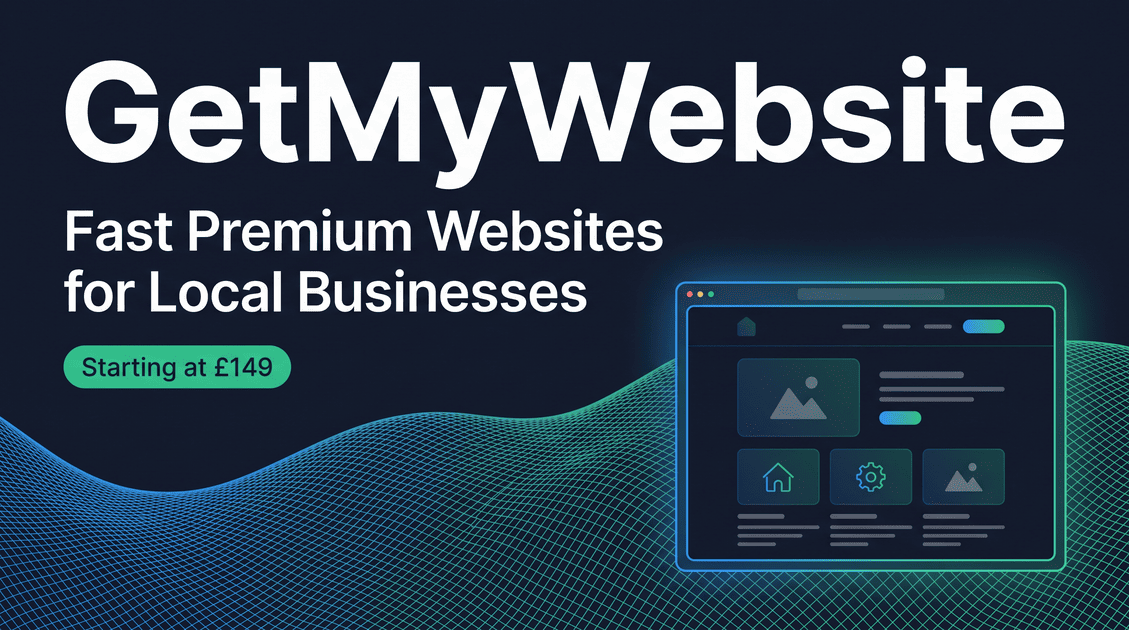
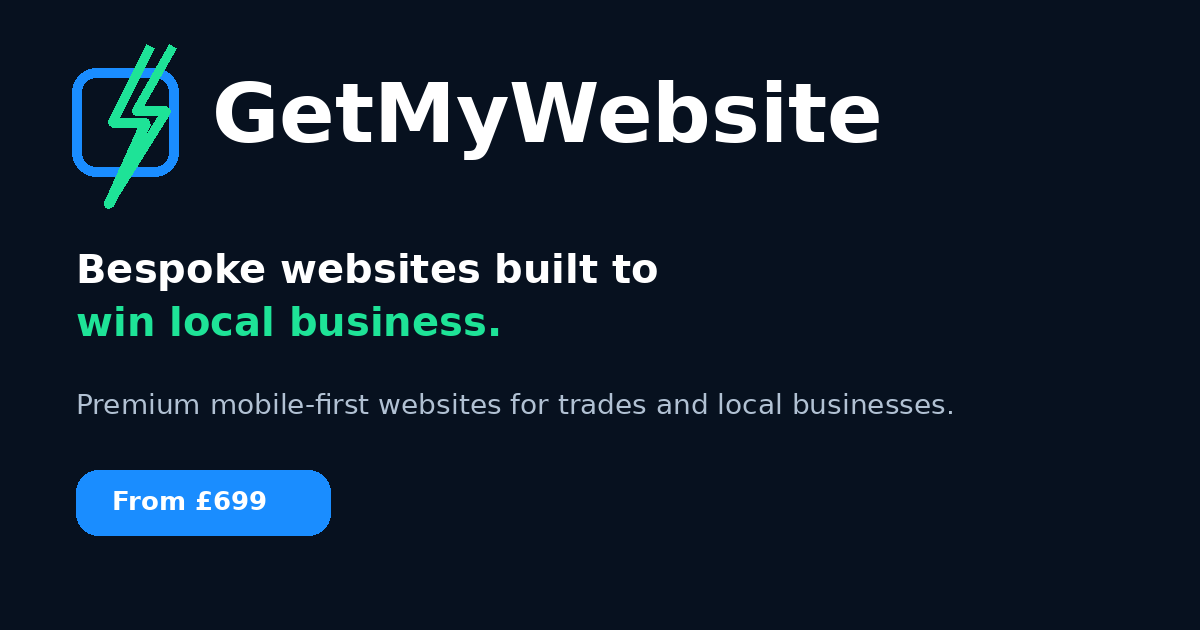
Add files via upload

diff --git a/index.html b/index.html
@@ -1,22 +1,155 @@
-<!DOCTYPE html><html lang="en"><head>
-		<meta charset="UTF-8">
-		<meta name="viewport" content="width=device-width, initial-scale=1.0">
-		<link rel="icon" href="./favicon.ico">
-		<meta property="og:image" content="./og-image.png">
-		<title>GetMyWebsite — Fast Premium Websites for Local Businesses</title>
-		<meta name="description" content="GetMyWebsite builds fast, premium websites for small businesses and local trades. Basic websites from £149, live in days. Mobile-friendly, WhatsApp buttons, 1 year hosting + custom domain included.">
-		<meta name="keywords" content="website for local business, website for tradesmen, cheap business website UK, fast website design, small business website, plumber website, gardener website, cleaning company website">
-		<meta property="og:title" content="GetMyWebsite — Fast Premium Websites for Local Businesses">
-		<meta property="og:description" content="Custom websites for small businesses and trades from £149. Mobile-friendly, WhatsApp-ready, live in days, 1 year hosting + domain included.">
-		<meta property="og:type" content="website">
-		<meta name="twitter:card" content="summary_large_image">
-		<meta name="twitter:title" content="GetMyWebsite — Fast Premium Websites for Local Businesses">
-		<meta name="twitter:description" content="Custom websites for small businesses and trades from £149. Mobile-friendly, WhatsApp-ready, live in days.">
-		<script type="module" crossorigin="" src="./assets/index-HQ4wgXe7.js"></script>
-		<link rel="stylesheet" crossorigin="" href="./assets/index-BVMyHrUg.css">
-	</head>
-	<body>
-		<div id="root"></div>
-	
+<!DOCTYPE html>
+<html lang="en">
+<head>
+  <meta charset="UTF-8">
+  <meta name="viewport" content="width=device-width, initial-scale=1.0">
+  <title>GetMyWebsite — Bespoke Websites for Local Businesses</title>
+  <meta name="description" content="Bespoke, mobile-first websites for trades and local businesses. Professional web design from £699 with WhatsApp, call integration, local SEO foundations and fast delivery.">
+  <meta name="keywords" content="bespoke website design, local business website, tradesman website, small business website UK, web design for trades, local SEO website">
+  <meta property="og:title" content="GetMyWebsite — Bespoke Websites for Local Businesses">
+  <meta property="og:description" content="Bespoke websites built to turn local visitors into calls, messages and enquiries. Packages from £699.">
+  <meta property="og:image" content="https://getmywebsite.uk/og-image.png">
+  <meta property="og:type" content="website">
+  <meta name="twitter:card" content="summary_large_image">
+  <link rel="icon" href="favicon.ico">
+  <link rel="preconnect" href="https://fonts.googleapis.com">
+  <link rel="preconnect" href="https://fonts.gstatic.com" crossorigin>
+  <link href="https://fonts.googleapis.com/css2?family=Manrope:wght@400;500;600;700;800&display=swap" rel="stylesheet">
+  <link rel="stylesheet" href="styles.css">
+</head>
+<body>
+  <header class="site-header">
+    <div class="shell nav-wrap">
+      <a class="brand" href="#top" aria-label="GetMyWebsite home"><img src="assets/logo.svg" alt="GetMyWebsite"></a>
+      <nav class="desktop-nav" aria-label="Main navigation">
+        <a href="#work">Our Work</a><a href="#services">What's Included</a><a href="#pricing">Pricing</a><a href="#process">How It Works</a>
+      </nav>
+      <div class="nav-actions">
+        <a class="nav-call" href="tel:07367856186">07367 856 186</a>
+        <a class="btn btn-small" href="https://wa.me/447367856186?text=Hi%20Kieran%2C%20I%27d%20like%20to%20talk%20about%20a%20website" target="_blank" rel="noopener">Get a Quote</a>
+      </div>
+      <button class="menu-toggle" aria-label="Open menu" aria-expanded="false"><span></span><span></span><span></span></button>
+    </div>
+    <div class="mobile-menu" aria-hidden="true">
+      <a href="#work">Our Work</a><a href="#services">What's Included</a><a href="#pricing">Pricing</a><a href="#process">How It Works</a>
+      <a class="btn" href="https://wa.me/447367856186?text=Hi%20Kieran%2C%20I%27d%20like%20to%20talk%20about%20a%20website" target="_blank" rel="noopener">WhatsApp Us</a>
+    </div>
+  </header>
 
-</body></html>
+  <main id="top">
+    <section class="hero">
+      <div class="hero-glow hero-glow-one"></div><div class="hero-glow hero-glow-two"></div>
+      <div class="shell hero-grid">
+        <div class="hero-copy">
+          <div class="eyebrow"><span></span> BESPOKE WEBSITES FOR LOCAL BUSINESS</div>
+          <h1>Your business deserves a website that <em>looks the part.</em></h1>
+          <p class="hero-lead">Premium, mobile-first websites built around your business — designed to turn local visitors into calls, WhatsApp messages and enquiries.</p>
+          <div class="hero-actions">
+            <a class="btn btn-primary" href="#work">See Our Work</a>
+            <a class="btn btn-ghost" href="https://wa.me/447367856186?text=Hi%20Kieran%2C%20I%27d%20like%20a%20quote%20for%20a%20website" target="_blank" rel="noopener">Get a Quote</a>
+          </div>
+          <div class="hero-proof">
+            <div><strong>100%</strong><span>Bespoke design</span></div>
+            <div><strong>Mobile</strong><span>Built first</span></div>
+            <div><strong>Fast</strong><span>Launch turnaround</span></div>
+          </div>
+        </div>
+        <div class="hero-showcase" aria-label="Website portfolio preview">
+          <div class="browser browser-main">
+            <div class="browser-bar"><i></i><i></i><i></i><span>yourbusiness.co.uk</span></div>
+            <img src="assets/portfolio-draindoctor.jpg" alt="Drain Doctor Derby website example">
+          </div>
+          <div class="browser browser-float browser-float-one"><img src="assets/portfolio-cutting-edge.jpg" alt="Garden services website example"></div>
+          <div class="browser browser-float browser-float-two"><img src="assets/portfolio-cleaning.jpg" alt="Cleaning business website example"></div>
+          <div class="built-badge"><span class="pulse"></span><b>Built for real local businesses</b></div>
+        </div>
+      </div>
+      <div class="trust-strip">
+        <div class="shell trust-grid">
+          <span>Bespoke design</span><span>Mobile optimised</span><span>Call + WhatsApp</span><span>Local SEO foundations</span><span>Hosting + domain setup</span>
+        </div>
+      </div>
+    </section>
+
+    <section class="section work" id="work">
+      <div class="shell">
+        <div class="section-head split-head">
+          <div><div class="kicker">SELECTED WORK</div><h2>Different businesses.<br>Different websites.</h2></div>
+          <p>We don't force every client into the same template. The design, colour, layout and messaging are built around the business we're working with.</p>
+        </div>
+        <div class="portfolio-showcase">
+          <article class="case-study case-study-featured">
+            <div class="case-visual"><img src="assets/portfolio-greens.jpg" alt="Green's Paving Landscaping and Roofing website"></div>
+            <div class="case-copy"><span>LANDSCAPING · PAVING · ROOFING</span><h3>Green's</h3><p>A bold, image-led local trades website with instant Call and WhatsApp routes and a strong mobile-first layout.</p></div>
+          </article>
+          <div class="case-grid">
+            <article class="case-study"><div class="case-visual"><img src="assets/portfolio-draindoctor.jpg" alt="Drain Doctor Derby website"></div><div class="case-copy"><span>EMERGENCY PLUMBING</span><h3>Drain Doctor Derby</h3></div></article>
+            <article class="case-study"><div class="case-visual"><img src="assets/portfolio-cutting-edge.jpg" alt="Cutting Edge Garden Services website"></div><div class="case-copy"><span>GARDEN SERVICES</span><h3>Cutting Edge</h3></div></article>
+            <article class="case-study"><div class="case-visual"><img src="assets/portfolio-cleaning.jpg" alt="Prestige Clean website"></div><div class="case-copy"><span>CLEANING</span><h3>Prestige Clean</h3></div></article>
+            <article class="case-study"><div class="case-visual"><img src="assets/portfolio-plumbing.jpg" alt="Mickleover Plumbing website"></div><div class="case-copy"><span>PLUMBING</span><h3>Mickleover Plumbing</h3></div></article>
+          </div>
+        </div>
+      </div>
+    </section>
+
+    <section class="section services" id="services">
+      <div class="shell">
+        <div class="section-head centered"><div class="kicker">BUILT TO PERFORM</div><h2>More than a good-looking website.</h2><p>Your site should make it easy for customers to trust you, understand what you do and contact you.</p></div>
+        <div class="feature-grid">
+          <div class="feature"><div class="feature-icon">01</div><h3>Bespoke design</h3><p>Designed around your branding, services, customers and local market — not a generic off-the-shelf template.</p></div>
+          <div class="feature"><div class="feature-icon">02</div><h3>Mobile-first</h3><p>Every layout is designed to work properly on the phones your customers actually use.</p></div>
+          <div class="feature"><div class="feature-icon">03</div><h3>Call + WhatsApp</h3><p>Clear contact actions throughout the site so a visitor can become an enquiry in seconds.</p></div>
+          <div class="feature"><div class="feature-icon">04</div><h3>Local SEO foundations</h3><p>Search-friendly structure, titles and content foundations so Google can understand your business.</p></div>
+          <div class="feature"><div class="feature-icon">05</div><h3>Real business proof</h3><p>Reviews, project galleries, service areas and trust points placed where they actually help conversions.</p></div>
+          <div class="feature"><div class="feature-icon">06</div><h3>Fast + managed launch</h3><p>We handle the technical setup, domain connection and launch so you don't have to.</p></div>
+        </div>
+      </div>
+    </section>
+
+    <section class="section pricing" id="pricing">
+      <div class="shell">
+        <div class="section-head centered pricing-head"><div class="kicker">STRAIGHTFORWARD PRICING</div><h2>Bespoke websites. Clear pricing.</h2><p>No page-count gimmicks. We build the website your business needs.</p></div>
+        <div class="pricing-grid">
+          <article class="price-card">
+            <div class="price-top"><span class="package">BESPOKE</span><h3>Business Website</h3><div class="price"><sup>£</sup>699</div><p>A professional, custom-built website for local businesses that need to look credible and generate enquiries.</p></div>
+            <ul><li>Bespoke design built around your business</li><li>Fully mobile optimised</li><li>Call + WhatsApp integration</li><li>Contact and enquiry forms</li><li>Google Reviews + Maps integration</li><li>Professional image sourcing where needed</li><li>Local SEO foundations</li><li>Domain + hosting setup</li></ul>
+            <a class="btn btn-price" href="https://wa.me/447367856186?text=Hi%20Kieran%2C%20I%27m%20interested%20in%20the%20%C2%A3699%20Bespoke%20Business%20Website" target="_blank" rel="noopener">Start Your Website</a>
+          </article>
+          <article class="price-card featured">
+            <div class="recommended">MOST POPULAR</div>
+            <div class="price-top"><span class="package">BESPOKE+</span><h3>Business Website Pro</h3><div class="price"><sup>£</sup>999</div><p>For businesses that want a stronger online presence, more depth and a site engineered around growth.</p></div>
+            <ul><li>Everything in Bespoke Business</li><li>Advanced custom layouts and sections</li><li>Enhanced service + location targeting</li><li>Conversion-focused landing sections</li><li>Advanced galleries / transformations</li><li>Stronger local SEO structure</li><li>Priority revisions and launch</li><li>Expanded trust and lead-generation features</li></ul>
+            <a class="btn btn-primary" href="https://wa.me/447367856186?text=Hi%20Kieran%2C%20I%27m%20interested%20in%20the%20%C2%A3999%20Bespoke%2B%20Website" target="_blank" rel="noopener">Choose Bespoke+</a>
+          </article>
+        </div>
+        <p class="pricing-note">Need something different? Tell us what you're trying to achieve and we'll quote around the project.</p>
+      </div>
+    </section>
+
+    <section class="section process" id="process">
+      <div class="shell process-grid">
+        <div class="process-copy"><div class="kicker">SIMPLE PROCESS</div><h2>We make getting a proper website easy.</h2><p>You don't need to write a brief or understand web design. Send us the basics and we'll take it from there.</p><a class="text-link" href="https://wa.me/447367856186?text=Hi%20Kieran%2C%20I%27d%20like%20to%20get%20started%20with%20a%20website" target="_blank" rel="noopener">Start a conversation →</a></div>
+        <div class="steps">
+          <div class="step"><span>1</span><div><h3>Send us your details</h3><p>Your business name, services, contact details, logo and any photos you already have.</p></div></div>
+          <div class="step"><span>2</span><div><h3>We design it</h3><p>We build a bespoke design around your business and show you the website before launch.</p></div></div>
+          <div class="step"><span>3</span><div><h3>You review it</h3><p>You tell us what you'd like adjusted. We polish the details until everything feels right.</p></div></div>
+          <div class="step"><span>4</span><div><h3>We launch it</h3><p>We connect your domain, put the site live and make sure your contact buttons work properly.</p></div></div>
+        </div>
+      </div>
+    </section>
+
+    <section class="cta-section">
+      <div class="shell cta-card">
+        <div><div class="kicker">READY TO LOOK MORE PROFESSIONAL?</div><h2>Let's build a website your business can be proud of.</h2><p>Send us a message with your business name and what you do. We'll take it from there.</p></div>
+        <div class="cta-actions"><a class="btn btn-primary" href="https://wa.me/447367856186?text=Hi%20Kieran%2C%20I%27d%20like%20a%20website%20for%20my%20business" target="_blank" rel="noopener">WhatsApp Kieran</a><a class="btn btn-ghost" href="tel:07367856186">Call 07367 856 186</a></div>
+      </div>
+    </section>
+  </main>
+
+  <footer>
+    <div class="shell footer-grid"><a class="brand footer-brand" href="#top"><img src="assets/logo.svg" alt="GetMyWebsite"></a><p>Bespoke websites for trades and local businesses across the UK.</p><div class="footer-links"><a href="#work">Work</a><a href="#pricing">Pricing</a><a href="#process">Process</a></div></div>
+    <div class="shell footer-bottom"><span>© <span id="year"></span> GetMyWebsite. All rights reserved.</span><span>getmywebsite.uk</span></div>
+  </footer>
+  <script src="script.js"></script>
+</body>
+</html>

diff --git a/styles.css b/styles.css
@@ -1,0 +1,8 @@
+:root{--bg:#07111f;--bg2:#0b1627;--panel:#101d31;--panel2:#0d192b;--text:#f6f9ff;--muted:#9cacbf;--blue:#1a8dff;--green:#1ee397;--line:rgba(255,255,255,.1);--shadow:0 30px 80px rgba(0,0,0,.35)}*{box-sizing:border-box}html{scroll-behavior:smooth}body{margin:0;font-family:Manrope,Arial,sans-serif;background:var(--bg);color:var(--text);line-height:1.55;-webkit-font-smoothing:antialiased}img{display:block;max-width:100%}a{color:inherit;text-decoration:none}.shell{width:min(1180px,calc(100% - 40px));margin:auto}.site-header{position:sticky;top:0;z-index:100;background:rgba(7,17,31,.88);backdrop-filter:blur(18px);border-bottom:1px solid var(--line)}.nav-wrap{height:82px;display:flex;align-items:center;gap:28px}.brand{display:block;width:310px;max-width:38vw}.brand img{width:100%;height:auto}.desktop-nav{margin-left:auto;display:flex;gap:30px}.desktop-nav a,.nav-call{font-size:14px;font-weight:700;color:#c7d3e1;transition:.2s}.desktop-nav a:hover,.nav-call:hover{color:#fff}.nav-actions{display:flex;align-items:center;gap:18px}.btn{display:inline-flex;justify-content:center;align-items:center;min-height:52px;padding:0 24px;border-radius:14px;font-weight:800;border:1px solid transparent;transition:.2s ease}.btn:hover{transform:translateY(-2px)}.btn-small{min-height:44px;padding:0 18px;background:linear-gradient(135deg,var(--blue),var(--green));color:#04101b}.btn-primary{background:linear-gradient(135deg,var(--blue),var(--green));color:#04101b;box-shadow:0 12px 30px rgba(21,197,184,.18)}.btn-ghost{border-color:rgba(255,255,255,.28);background:rgba(255,255,255,.035);color:#fff}.menu-toggle,.mobile-menu{display:none}.hero{position:relative;overflow:hidden;padding:92px 0 0;background:radial-gradient(circle at 12% 12%,rgba(26,141,255,.15),transparent 31%),radial-gradient(circle at 87% 28%,rgba(30,227,151,.11),transparent 30%)}.hero-grid{display:grid;grid-template-columns:1.02fr .98fr;gap:72px;align-items:center;min-height:630px;padding-bottom:80px}.eyebrow,.kicker{font-size:12px;letter-spacing:.19em;font-weight:800;color:#69efc1}.eyebrow{display:flex;align-items:center;gap:10px}.eyebrow span{width:34px;height:2px;background:linear-gradient(90deg,var(--blue),var(--green))}.hero h1{font-size:clamp(52px,5.7vw,78px);line-height:.98;letter-spacing:-.055em;margin:22px 0 26px;max-width:760px}.hero h1 em{font-style:normal;background:linear-gradient(90deg,#51aaff,#49efa7);-webkit-background-clip:text;color:transparent}.hero-lead{font-size:19px;color:#b7c4d4;max-width:660px;margin:0}.hero-actions{display:flex;gap:14px;margin-top:34px}.hero-proof{display:flex;gap:34px;margin-top:42px;padding-top:28px;border-top:1px solid var(--line)}.hero-proof div{display:flex;flex-direction:column}.hero-proof strong{font-size:19px}.hero-proof span{font-size:12px;color:var(--muted);margin-top:3px}.hero-showcase{position:relative;min-height:520px}.browser{overflow:hidden;border:1px solid rgba(255,255,255,.15);background:#111d2c;box-shadow:var(--shadow)}.browser-main{position:absolute;right:0;top:22px;width:92%;border-radius:20px;transform:rotate(1.5deg)}.browser-main img{width:100%;aspect-ratio:1.28/1;object-fit:cover}.browser-bar{height:38px;background:#0b111d;border-bottom:1px solid rgba(255,255,255,.08);display:flex;align-items:center;gap:6px;padding:0 12px}.browser-bar i{width:7px;height:7px;border-radius:50%;background:#64748b}.browser-bar i:first-child{background:#fb7185}.browser-bar i:nth-child(2){background:#facc15}.browser-bar i:nth-child(3){background:#4ade80}.browser-bar span{margin-left:8px;font-size:9px;color:#65748a}.browser-float{position:absolute;width:48%;border-radius:15px}.browser-float img{width:100%;aspect-ratio:1.25/1;object-fit:cover}.browser-float-one{left:-5%;bottom:9%;transform:rotate(-5deg)}.browser-float-two{right:-1%;bottom:-1%;transform:rotate(4deg);width:44%}.built-badge{position:absolute;left:9%;top:10px;background:rgba(8,17,30,.92);border:1px solid rgba(255,255,255,.14);border-radius:999px;padding:10px 16px;font-size:11px;display:flex;align-items:center;gap:9px;box-shadow:0 16px 45px rgba(0,0,0,.35)}.pulse{width:8px;height:8px;background:var(--green);border-radius:50%;box-shadow:0 0 0 6px rgba(30,227,151,.12)}.trust-strip{border-top:1px solid var(--line);border-bottom:1px solid var(--line);background:rgba(255,255,255,.02)}.trust-grid{min-height:64px;display:grid;grid-template-columns:repeat(5,1fr);align-items:center;text-align:center}.trust-grid span{font-size:12px;font-weight:800;color:#a8b5c6;border-right:1px solid var(--line)}.trust-grid span:last-child{border-right:0}.section{padding:112px 0}.section-head h2,.process h2,.cta-card h2{font-size:clamp(38px,4.5vw,60px);line-height:1.05;letter-spacing:-.045em;margin:12px 0 0}.split-head{display:grid;grid-template-columns:1.1fr .9fr;gap:70px;align-items:end;margin-bottom:54px}.split-head>p,.centered>p,.process-copy>p,.cta-card p{color:var(--muted);font-size:17px;margin:0}.centered{text-align:center;max-width:760px;margin:0 auto 54px}.centered p{margin:18px auto 0;max-width:650px}.work{background:#091525}.portfolio-grid{display:grid;grid-template-columns:repeat(2,1fr);gap:22px}.project{border-radius:24px;overflow:hidden;background:var(--panel);border:1px solid var(--line);transition:.25s}.project:hover{transform:translateY(-4px);border-color:rgba(30,227,151,.25)}.project-wide{grid-column:span 2;display:grid;grid-template-columns:1.35fr .65fr}.project-image{overflow:hidden}.project-image img{width:100%;height:100%;min-height:330px;object-fit:cover;transition:.45s}.project:hover .project-image img{transform:scale(1.02)}.project-meta{padding:28px}.project-meta span{color:#58e9b7;font-size:11px;font-weight:800;letter-spacing:.13em;text-transform:uppercase}.project-meta h3{font-size:25px;margin:8px 0 8px}.project-meta p{color:var(--muted);margin:0;font-size:14px}.services{background:#f4f7fb;color:#091525}.services .kicker{color:#05785b}.services .centered p{color:#64748b}.feature-grid{display:grid;grid-template-columns:repeat(3,1fr);gap:18px}.feature{background:#fff;border:1px solid #e1e8f1;border-radius:22px;padding:30px;box-shadow:0 16px 45px rgba(18,35,58,.06)}.feature-icon{font-size:11px;font-weight:800;color:#078861;margin-bottom:40px}.feature h3{font-size:21px;margin:0 0 10px}.feature p{margin:0;color:#64748b;font-size:14px}.pricing{background:linear-gradient(180deg,#07111f,#0a1628)}.pricing-grid{display:grid;grid-template-columns:1fr 1fr;gap:24px;max-width:1000px;margin:auto}.price-card{position:relative;background:rgba(255,255,255,.035);border:1px solid rgba(255,255,255,.11);border-radius:28px;padding:36px}.price-card.featured{border-color:rgba(30,227,151,.42);background:linear-gradient(180deg,rgba(30,227,151,.07),rgba(255,255,255,.03));box-shadow:0 28px 70px rgba(0,0,0,.25)}.recommended{position:absolute;top:18px;right:18px;background:linear-gradient(135deg,var(--blue),var(--green));color:#06121d;font-size:10px;font-weight:900;letter-spacing:.12em;border-radius:999px;padding:8px 11px}.package{font-size:11px;letter-spacing:.15em;color:#61edbc;font-weight:800}.price-top h3{font-size:28px;margin:10px 0 5px}.price{font-size:64px;line-height:1;font-weight:800;letter-spacing:-.05em;margin:20px 0}.price sup{font-size:25px;vertical-align:top;margin-right:2px}.price-top p{color:var(--muted);min-height:74px}.price-card ul{list-style:none;padding:26px 0;margin:24px 0;border-top:1px solid var(--line);border-bottom:1px solid var(--line)}.price-card li{position:relative;padding:7px 0 7px 27px;color:#d3dde8;font-size:14px}.price-card li:before{content:'✓';position:absolute;left:0;color:var(--green);font-weight:900}.btn-price{width:100%;border:1px solid rgba(255,255,255,.25)}.price-card .btn-primary{width:100%}.pricing-note{text-align:center;color:#7f90a5;font-size:13px;margin-top:26px}.process{background:#fff;color:#091525}.process-grid{display:grid;grid-template-columns:.85fr 1.15fr;gap:90px;align-items:start}.process .kicker{color:#087d60}.process-copy p{color:#64748b;margin-top:20px}.text-link{display:inline-block;margin-top:24px;color:#087d60;font-weight:800}.steps{border-top:1px solid #dce4ed}.step{display:grid;grid-template-columns:60px 1fr;gap:20px;padding:28px 0;border-bottom:1px solid #dce4ed}.step>span{width:42px;height:42px;border-radius:50%;display:grid;place-items:center;background:#e9fbf4;color:#087d60;font-weight:900}.step h3{margin:0 0 6px;font-size:18px}.step p{margin:0;color:#66768a;font-size:14px}.cta-section{padding:40px 0 100px;background:#fff}.cta-card{background:linear-gradient(135deg,#09172a,#0e2635);border-radius:30px;padding:55px 60px;display:grid;grid-template-columns:1fr auto;gap:40px;align-items:center;overflow:hidden;position:relative}.cta-card:after{content:'';position:absolute;right:-90px;top:-100px;width:330px;height:330px;border-radius:50%;background:radial-gradient(circle,rgba(30,227,151,.18),transparent 68%)}.cta-card h2{font-size:43px;max-width:700px}.cta-card p{margin-top:16px;max-width:650px}.cta-actions{display:flex;flex-direction:column;gap:12px;z-index:1;min-width:210px}footer{background:#050c16;border-top:1px solid var(--line);padding:48px 0 26px}.footer-grid{display:grid;grid-template-columns:1.1fr 1fr auto;align-items:center;gap:40px}.footer-brand{width:260px}.footer-grid p{color:#73839a;font-size:13px}.footer-links{display:flex;gap:22px;font-size:13px;color:#a9b6c6}.footer-bottom{border-top:1px solid var(--line);margin-top:32px;padding-top:22px;display:flex;justify-content:space-between;color:#5e6e83;font-size:11px}
+@media(max-width:980px){.desktop-nav,.nav-call{display:none}.menu-toggle{display:flex;margin-left:auto;background:none;border:0;width:42px;height:42px;flex-direction:column;justify-content:center;gap:5px}.menu-toggle span{display:block;width:24px;height:2px;background:#fff}.nav-actions{margin-left:auto}.mobile-menu{display:none;position:absolute;top:82px;left:0;right:0;background:#07111f;border-bottom:1px solid var(--line);padding:18px 20px 26px;flex-direction:column;gap:16px}.mobile-menu.open{display:flex}.hero-grid{grid-template-columns:1fr;gap:38px}.hero-showcase{min-height:510px;max-width:720px;width:100%;margin:auto}.split-head,.process-grid{grid-template-columns:1fr;gap:30px}.feature-grid{grid-template-columns:repeat(2,1fr)}.cta-card{grid-template-columns:1fr}.cta-actions{flex-direction:row}.footer-grid{grid-template-columns:1fr 1fr}.footer-links{grid-column:1/-1}}
+@media(max-width:720px){.shell{width:min(100% - 28px,1180px)}.nav-wrap{height:70px}.brand{width:225px;max-width:65vw}.nav-actions{display:none}.mobile-menu{top:70px}.hero{padding-top:52px}.hero-grid{min-height:auto;padding-bottom:56px}.hero h1{font-size:47px;line-height:1.01}.hero-lead{font-size:16px}.hero-actions{flex-direction:column}.hero-actions .btn{width:100%}.hero-proof{gap:0;justify-content:space-between}.hero-proof div{width:33%}.hero-showcase{min-height:350px}.browser-main{width:92%;top:15px}.browser-float{width:46%}.built-badge{left:0;font-size:9px}.trust-grid{grid-template-columns:1fr 1fr}.trust-grid span{padding:14px 6px;border-bottom:1px solid var(--line)}.trust-grid span:nth-child(even){border-right:0}.trust-grid span:last-child{grid-column:1/-1}.section{padding:76px 0}.split-head{margin-bottom:34px}.section-head h2,.process h2{font-size:40px}.portfolio-grid{grid-template-columns:1fr}.project,.project-wide{display:block;grid-column:auto}.project-image img{min-height:245px}.feature-grid{grid-template-columns:1fr}.pricing-grid{grid-template-columns:1fr}.price-card{padding:28px 22px}.price{font-size:56px}.price-top p{min-height:auto}.process-grid{gap:44px}.cta-section{padding:16px 0 70px}.cta-card{padding:38px 24px}.cta-card h2{font-size:36px}.cta-actions{flex-direction:column}.footer-grid{grid-template-columns:1fr}.footer-brand{width:230px}.footer-bottom{gap:15px;flex-direction:column}.project-meta{padding:22px}.browser-float-two{right:0}.hero-showcase .browser-float-one{left:0}}
+@media(max-width:430px){.hero h1{font-size:42px}.hero-showcase{min-height:320px}.browser-main{width:96%}.browser-float-one{bottom:4%}.browser-float-two{bottom:-2%}.hero-proof strong{font-size:16px}.hero-proof span{font-size:10px}.price-top h3{font-size:25px}}
+
+/* Portfolio showcase v2 */
+.portfolio-showcase{display:grid;gap:24px}.case-study{overflow:hidden;border:1px solid var(--line);border-radius:26px;background:#0d1b2d;box-shadow:0 24px 60px rgba(0,0,0,.22)}.case-study-featured{display:grid;grid-template-columns:minmax(0,1.65fr) minmax(300px,.55fr);align-items:stretch}.case-visual{background:#050b13;overflow:hidden}.case-visual img{width:100%;height:100%;object-fit:cover;object-position:top center;transition:transform .4s ease}.case-study:hover .case-visual img{transform:scale(1.012)}.case-study-featured .case-visual img{aspect-ratio:1.75/1;min-height:440px}.case-copy{padding:26px 28px}.case-study-featured .case-copy{display:flex;flex-direction:column;justify-content:flex-end;padding:38px}.case-copy span{font-size:10px;letter-spacing:.15em;font-weight:900;color:#59eab9}.case-copy h3{font-size:25px;line-height:1.1;margin:8px 0 0}.case-study-featured .case-copy h3{font-size:38px}.case-copy p{color:var(--muted);font-size:14px;margin:14px 0 0}.case-grid{display:grid;grid-template-columns:repeat(2,minmax(0,1fr));gap:24px}.case-grid .case-study{display:grid;grid-template-columns:minmax(0,1fr);}.case-grid .case-visual img{aspect-ratio:1.65/1;min-height:290px}.case-grid .case-copy{border-top:1px solid var(--line)}
+@media(max-width:720px){.case-study-featured{display:block}.case-study-featured .case-visual img{min-height:0;aspect-ratio:1.55/1}.case-study-featured .case-copy{padding:24px}.case-study-featured .case-copy h3{font-size:30px}.case-grid{grid-template-columns:1fr;gap:18px}.case-grid .case-visual img{min-height:0;aspect-ratio:1.55/1}.case-copy{padding:20px}.portfolio-showcase{gap:18px}}

diff --git a/script.js b/script.js
@@ -1,0 +1,3 @@
+const toggle=document.querySelector('.menu-toggle');const menu=document.querySelector('.mobile-menu');
+if(toggle&&menu){toggle.addEventListener('click',()=>{const open=menu.classList.toggle('open');toggle.setAttribute('aria-expanded',String(open));menu.setAttribute('aria-hidden',String(!open))});menu.querySelectorAll('a').forEach(a=>a.addEventListener('click',()=>{menu.classList.remove('open');toggle.setAttribute('aria-expanded','false');menu.setAttribute('aria-hidden','true')}))}
+document.getElementById('year').textContent=new Date().getFullYear();
